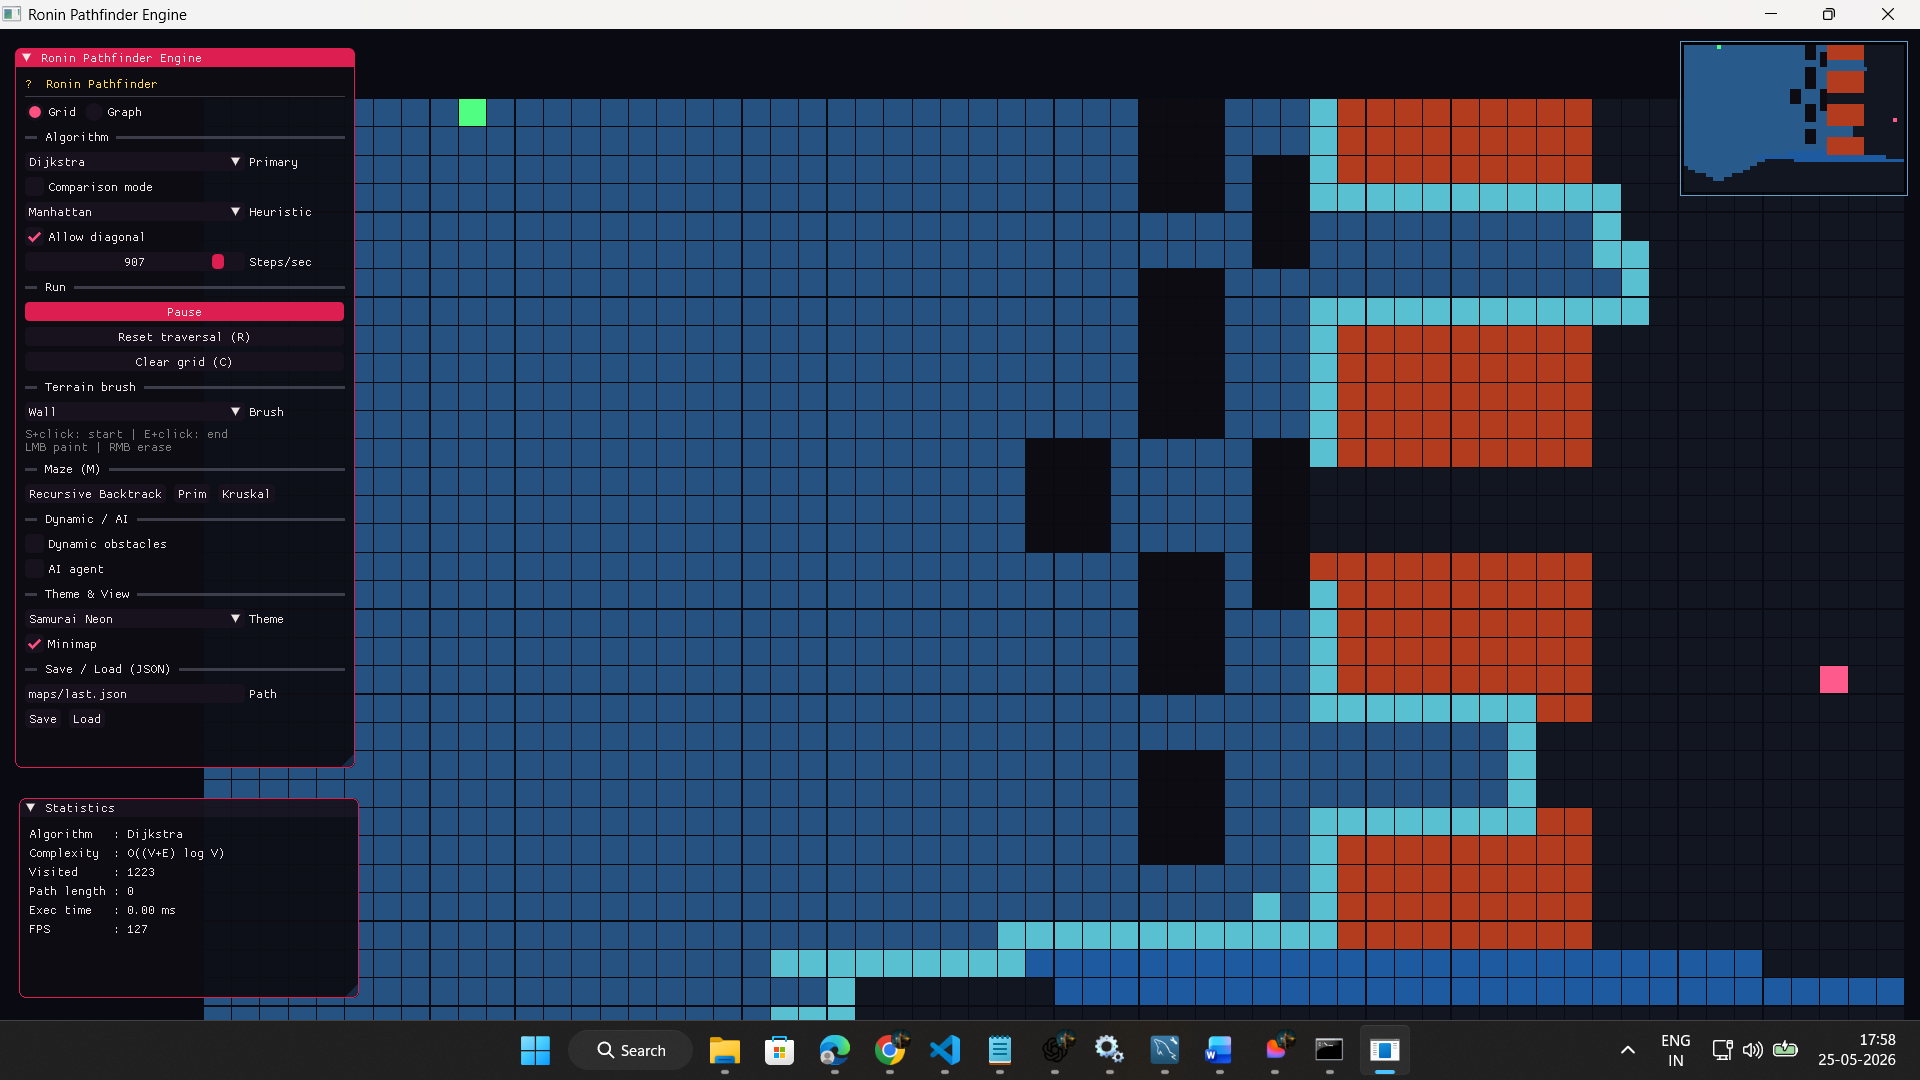
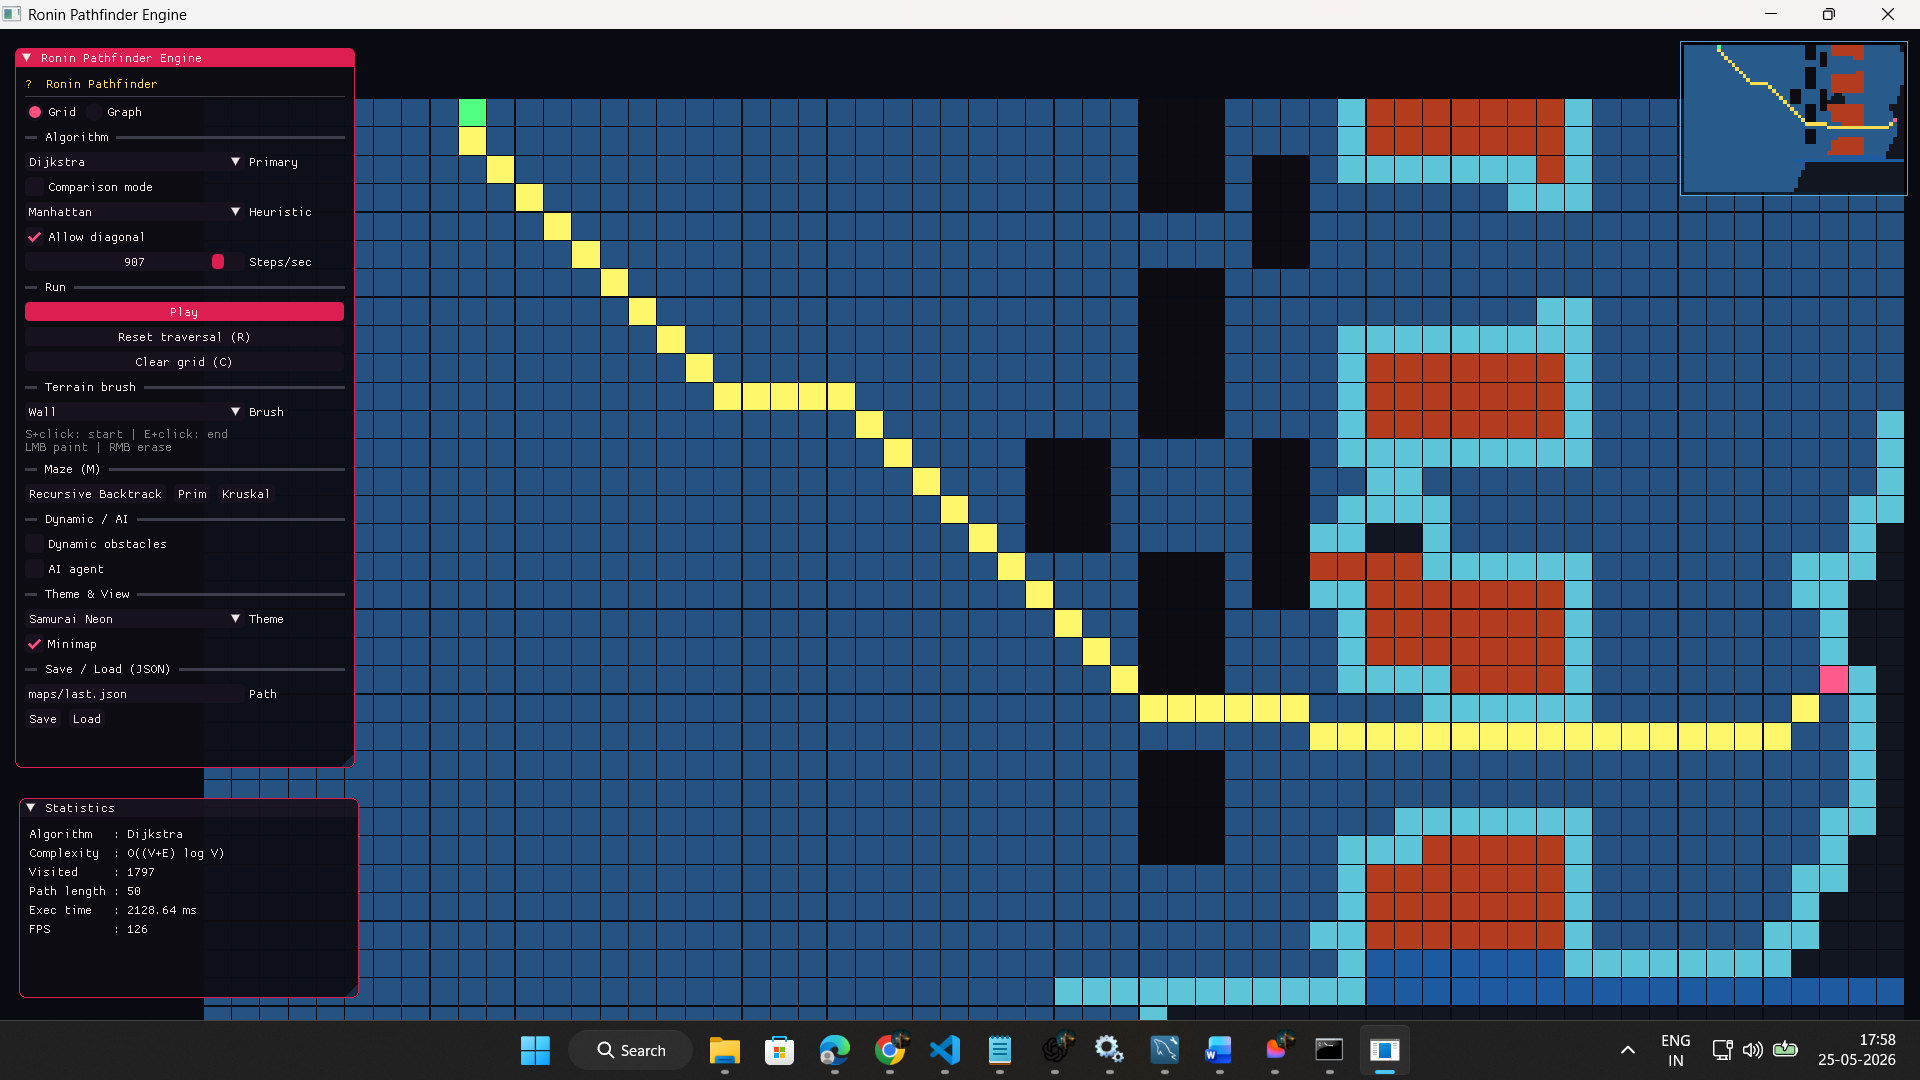
Added project preview screenshot

diff --git a/README.md b/README.md
@@ -1,24 +1,24 @@
 # Screenshots
 
-## Main Engine
+## Clean Grid Workspace
 
 ![Preview 1](./screenshots/preview1.png)
 
 ---
 
-## Pathfinding Visualization
+## Terrain Editing & Obstacle Layout
 
 ![Preview 2](./screenshots/preview2.png)
 
 ---
 
-## Graph Mode
+## Dynamic Pathfinding Simulation
 
 ![Preview 3](./screenshots/preview3.png)
 
 ---
 
-## Comparison / Maze Mode
+## Optimal Path Traversal
 
 ![Preview 4](./screenshots/preview4.png)
 
